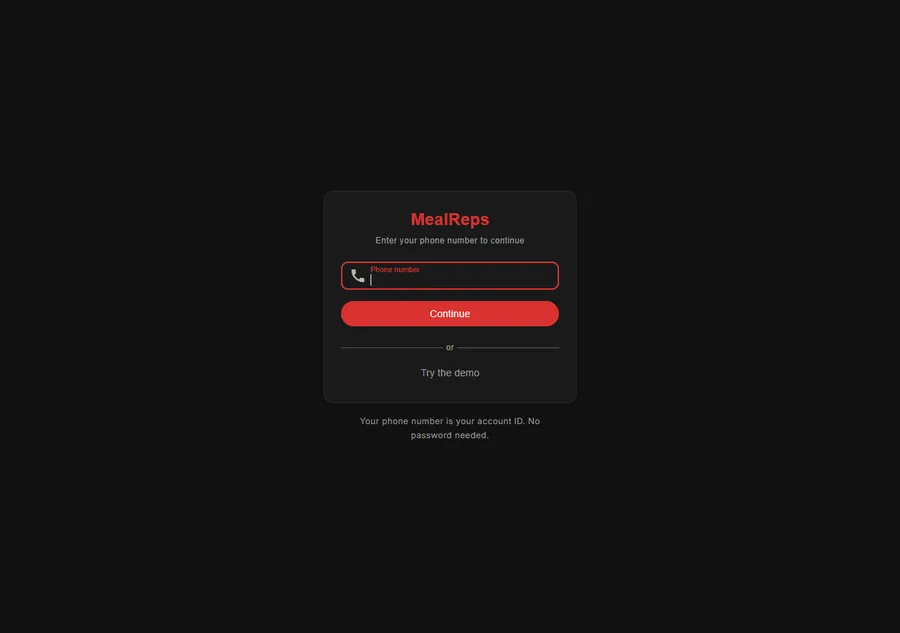
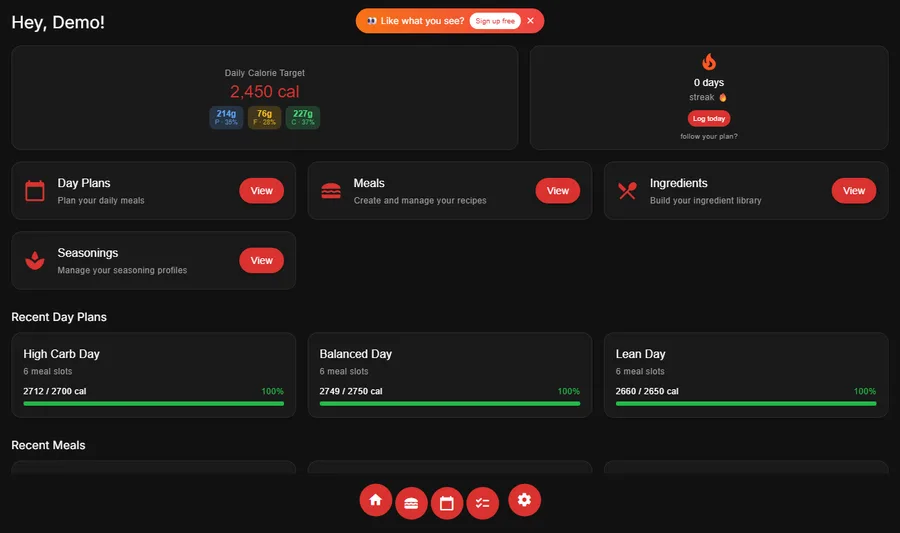
Capture MealReps signed-in dashboard via its demo account
Fixes a real bug in the click-by-text matcher: document order often puts
a wrapping <div>/<span> ahead of the actual interactive <button> it
contains, and a synthetic .click() on that outer wrapper never reaches
the framework's click handler bound to the inner button (click doesn't
bubble downward). The matcher now tries real interactive elements
(button/a/[role=button]) before falling back to generic containers,
which is also what let MealReps' own "Got it" onboarding tooltip
actually dismiss instead of silently no-op'ing.

MealReps' login screen only offers phone-number auth, so this uses its
"Try the demo" option to land on the real signed-in dashboard before
screenshotting.

diff --git a/client/scripts/generate-gallery-screenshots.js b/client/scripts/generate-gallery-screenshots.js
@@ -50,7 +50,11 @@ const CAPTURE_OPTIONS = {
   // requires a typed lobby name, then a second player to join) — the lobby
   // card itself is a real, reasonable "another view," and just needed a
   // real wall-clock wait instead of --virtual-time-budget to render at all.
-  'La Lotería': { waitMs: 6000 }
+  'La Lotería': { waitMs: 6000 },
+  // Login screen only offers phone-number auth — "Try the demo" lands on
+  // the real signed-in dashboard, which then opens a one-time "Got it!"
+  // onboarding tooltip over it.
+  MealReps: { waitMs: 4500, clickSequence: [{ text: 'Try the demo', waitMs: 3000 }, { text: 'Got it', waitMs: 800 }] }
 }
 
 function slugify(title) {
@@ -113,17 +117,25 @@ function clickByTextJs(text) {
   // requiring real visibility — a plain substring match risks hitting an
   // offscreen "Skip to content" accessibility link (first in DOM order on
   // most sites) instead of the actual visible dialog button, which is
-  // usually labeled "Skip →" rather than bare "Skip".
+  // usually labeled "Skip →" rather than bare "Skip". Real interactive
+  // elements (button/a/[role=button]) are tried before generic
+  // div/span/li wrappers — a framework's own click handler is bound to the
+  // innermost <button>, and a synthetic .click() on an ancestor div never
+  // reaches it (click doesn't bubble downward), so matching the outer
+  // wrapper first (whichever happens to come first in DOM order) can look
+  // like a successful click that silently does nothing.
   return `
     (function () {
       var target = ${JSON.stringify(text)};
-      var els = Array.prototype.slice.call(document.querySelectorAll('button, a, [role="button"], li, div, span'));
-      var match = els.find(function (el) {
+      function matches(el) {
         var t = (el.textContent || '').trim().replace(/[^\\p{L}\\p{N} ]+$/gu, '').trim();
         if (t !== target) return false;
         var r = el.getBoundingClientRect();
         return r.width > 0 && r.height > 0 && el.offsetParent !== null;
-      });
+      }
+      var interactive = Array.prototype.slice.call(document.querySelectorAll('button, a, [role="button"]'));
+      var fallback = Array.prototype.slice.call(document.querySelectorAll('li, div, span'));
+      var match = interactive.find(matches) || fallback.find(matches);
       if (match) { match.click(); return true; }
       return false;
     })()
@@ -165,6 +177,18 @@ async function captureOne(item, port) {
         console.warn(`  (no element matched clickText "${opts.clickText}" on ${item.title} — capturing default view)`)
       }
       await new Promise((r) => setTimeout(r, 1200))
+    }
+
+    // Ordered multi-step interaction — e.g. click into a demo account, then
+    // dismiss the onboarding tooltip that opens over the resulting view.
+    if (opts.clickSequence) {
+      for (const step of opts.clickSequence) {
+        const { result } = await send('Runtime.evaluate', { expression: clickByTextJs(step.text) })
+        if (!result || !result.value) {
+          console.warn(`  (no element matched clickSequence step "${step.text}" on ${item.title})`)
+        }
+        await new Promise((r) => setTimeout(r, step.waitMs ?? 1200))
+      }
     }
 
     const { data } = await send('Page.captureScreenshot', { format: 'png' })
